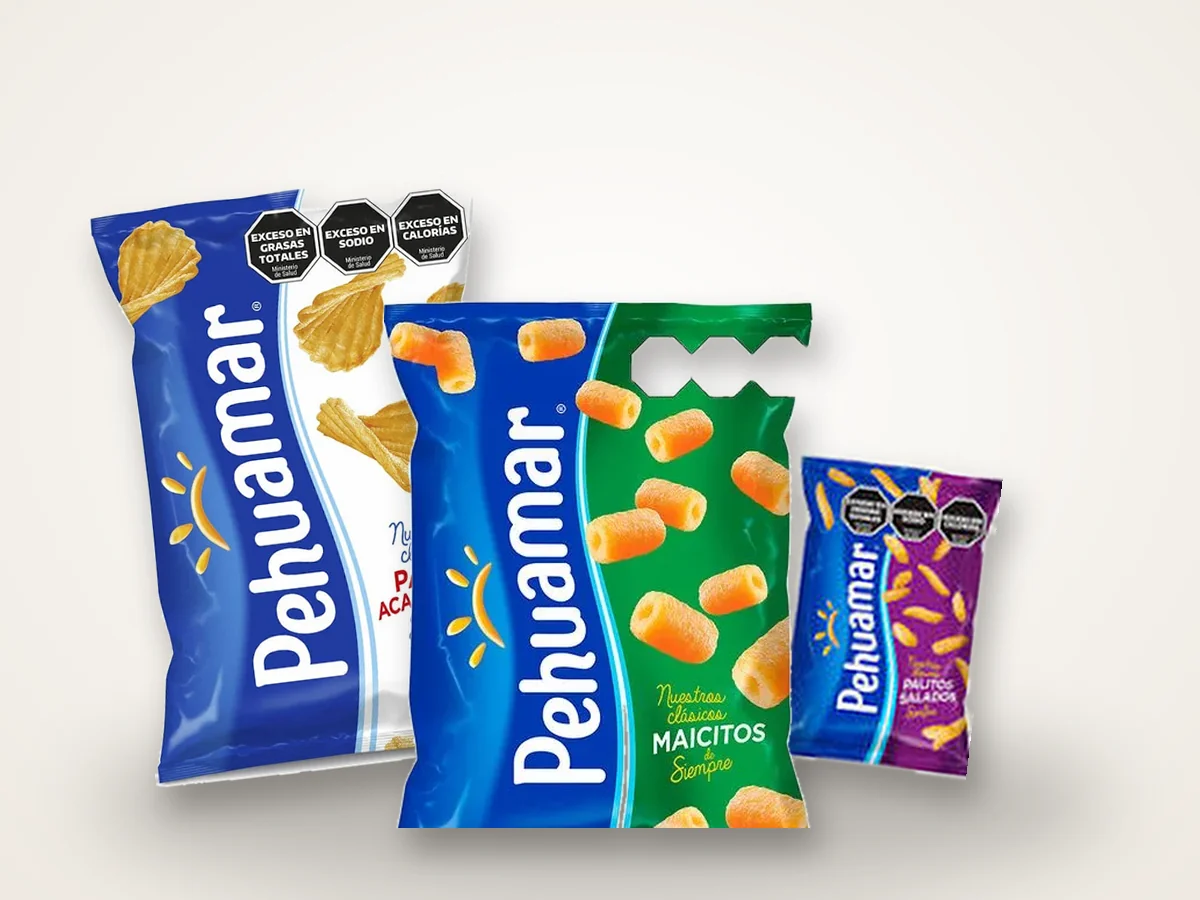
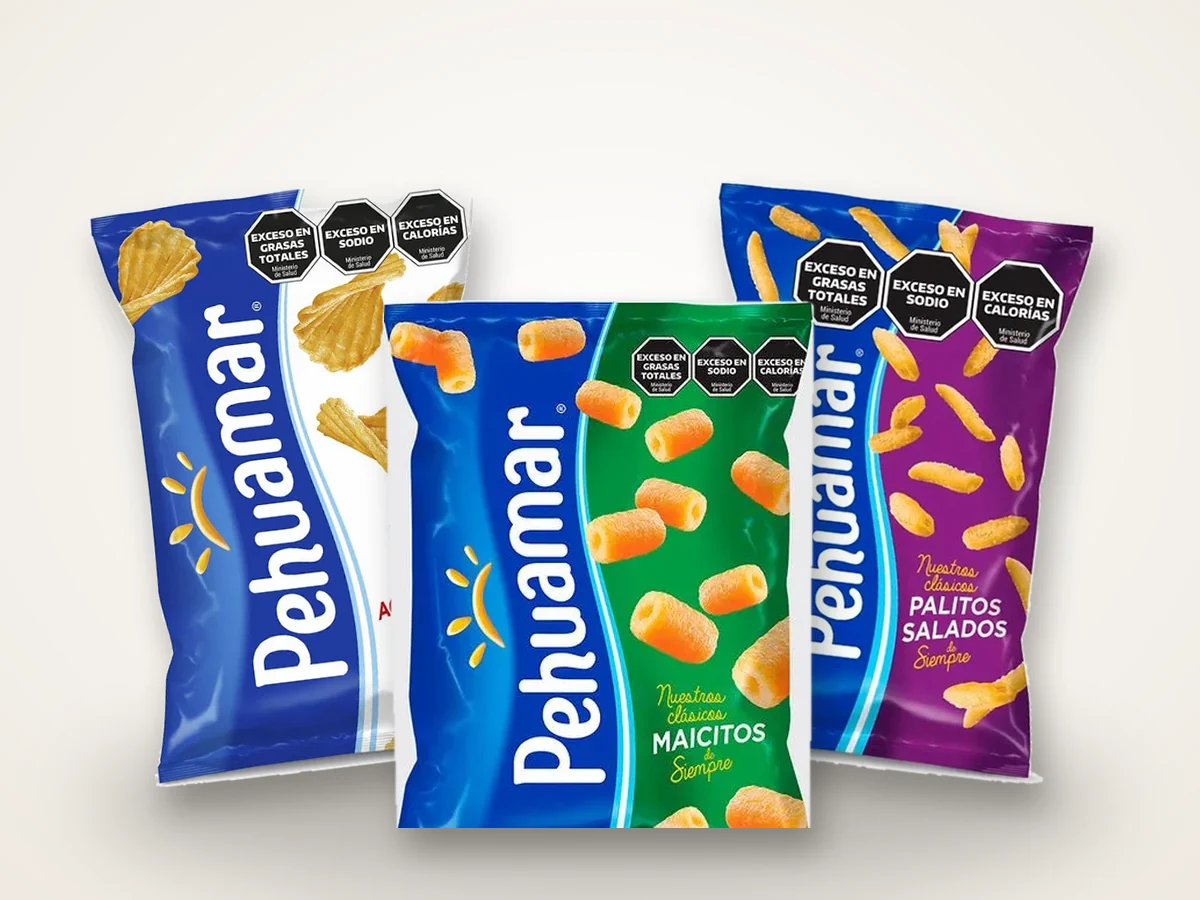
Nuevos congelados (Simplot 1,1 kg, Arvejas y Brócoli Green Life) y mejores fotos de Pehuamar
Claude-Session: https://claude.ai/code/session_018TW5pR3W6wvbYrCa5wfTa9

diff --git a/src/data/combos.js b/src/data/combos.js
@@ -76,6 +76,9 @@ import swiftCrunchies from '../assets/img/products/swift-crunchies.webp'
 import sadiaGoldenChicken from '../assets/img/products/sadia-golden-chicken.webp'
 import swiftPalitosPollo from '../assets/img/products/swift-palitos-pollo.webp'
 import munecaXxlPack from '../assets/img/products/muneca-xxl.webp'
+import glArvejas from '../assets/img/products/gl-arvejas.webp'
+import glBrocoli from '../assets/img/products/gl-brocoli.webp'
+import simplotPapas11 from '../assets/img/products/simplot-papas-11.webp'
 import oasisPapasTradicional from '../assets/img/products/oasis-papas-tradicional.webp'
 
 /**
@@ -424,6 +427,18 @@ export const combos = [
     pack: true,
   },
   {
+    id: 'simplot-papas-11',
+    category: 'congelados',
+    group: 'Salado',
+    name: 'Papas Simplot Corte Tradicional 1,1 kg',
+    brand: 'Simplot',
+    weight: '1,1 kg',
+    description: 'Papas prefritas supercongeladas, corte tradicional. Sin gluten.',
+    tiers: [{ qty: null, price: 7900 }],
+    image: simplotPapas11,
+    pack: true,
+  },
+  {
     id: 'green-life-veggies',
     category: 'congelados',
     group: 'Salado',
@@ -481,6 +496,30 @@ export const combos = [
     description: 'Arvejas, chauchas, choclo y zanahorias.',
     tiers: [{ qty: null, price: 4300 }],
     image: glPrimavera,
+    pack: true,
+  },
+  {
+    id: 'green-life-arvejas',
+    category: 'congelados',
+    group: 'Salado',
+    name: 'Arvejas Green Life 300 g',
+    brand: 'Green Life',
+    weight: '300 g',
+    description: 'Sin conservantes y fuente de fibra.',
+    tiers: [{ qty: null, price: 4500 }],
+    image: glArvejas,
+    pack: true,
+  },
+  {
+    id: 'green-life-brocoli',
+    category: 'congelados',
+    group: 'Salado',
+    name: 'Brócoli Green Life 400 g',
+    brand: 'Green Life',
+    weight: '400 g',
+    description: 'Sin conservantes, fuente de fibra y bajo en sodio.',
+    tiers: [{ qty: null, price: 5900 }],
+    image: glBrocoli,
     pack: true,
   },
 
